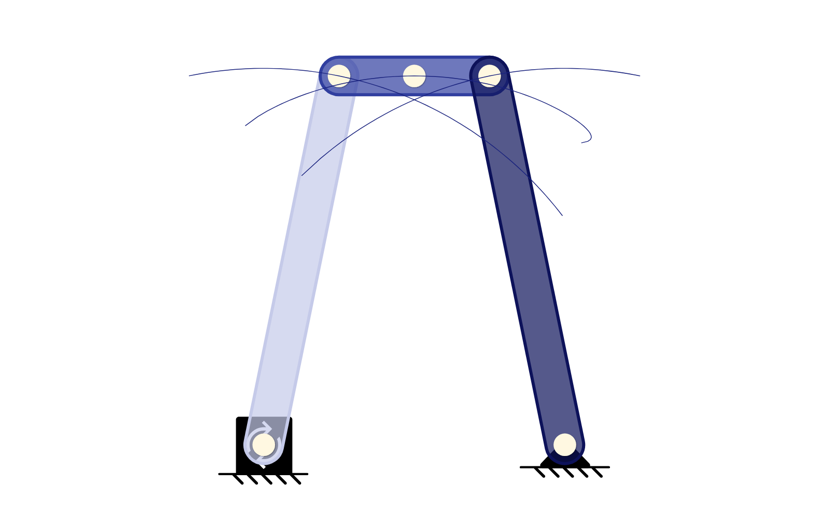
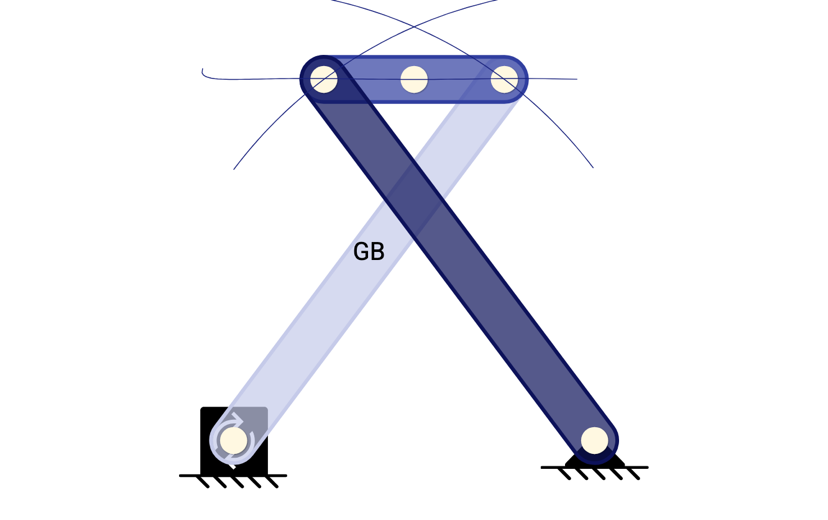
Cross the arms of the Chebyshev linkage, which is the whole of it
The library's straight-line linkage did not draw a straight line. Built
with each ground pivot holding the coupler pin on its own side -- the
arrangement that looks symmetric and right -- the same four lengths in
Chebyshev's classic 4:5:5:2 sweep an obvious arc: the tracer climbed
0.89 across its travel and strayed 6.4% from a straight line. The arms
have to cross. Crossed, it climbs 0.13 and strays 0.38%.

Nothing in the spec could tell the two apart. Both are rigid, both are
one degree of freedom, both are symmetric, both trace a level line of
much the same length, and the straightness bound was fitted to whichever
one it was handed. Worse, one assertion demanded a rise of half the
coupler and got it -- from the arc -- so the file's defence against "a
mechanism that barely moves" was actively asking to be wrong, since a
straight-line generator's entire point is that it has no rise. It now
measures travel along the line, and the straightness bound is set close
enough to where the linkage lands that the wrong assembly fails it.

The band the straightness is measured over was taken as "the upper half
by y", which means something only on a path with a pronounced top. On
the linkage this is supposed to be there isn't one: the split landed
inside the noise and returned a band a few thousandths of a unit wide.
Taken by x now.

diff --git a/src/tests/verification/chebyshev-straight-line.spec.ts b/src/tests/verification/chebyshev-straight-line.spec.ts
@@ -27,9 +27,10 @@ describe("Chebyshev's straight-line linkage", () => {
   it('keeps every bar rigid, tracer included', () => {
     for (let t = 0; t < frames; t++) {
       for (const [a, b, want] of [
-        ['G', 'A', CHEBYSHEV.rocker],
+        // Crossed: the left pivot holds the right-hand coupler pin.
+        ['G', 'B', CHEBYSHEV.rocker],
         ['A', 'B', CHEBYSHEV.coupler],
-        ['B', 'H', CHEBYSHEV.rocker],
+        ['A', 'H', CHEBYSHEV.rocker],
         ['A', 'M', CHEBYSHEV.coupler / 2],
         ['B', 'M', CHEBYSHEV.coupler / 2],
       ] as const) {
@@ -40,17 +41,20 @@ describe("Chebyshev's straight-line linkage", () => {
   });
 
   it('draws a straight line along the middle of its stroke', () => {
-    // The straight part is the *central* portion of the top: the tracer curves
-    // away at both ends, and including those measures the turn-around rather
-    // than the line. So take the upper half, keep the middle half of it by x,
-    // fit a line, and ask how far the tracer strays from it.
-    const mid = (Math.max(...path.map((p) => p.y)) + Math.min(...path.map((p) => p.y))) / 2;
-    const top = path.filter((p) => p.y > mid);
-    expect(top.length).toBeGreaterThan(frames / 4);
-    const xs = top.map((p) => p.x).sort((a, b) => a - b);
-    const lo = xs[Math.floor(xs.length * 0.25)];
-    const hi = xs[Math.floor(xs.length * 0.75)];
-    const band = top.filter((p) => p.x >= lo && p.x <= hi);
+    // The tracer curves away at each end of its travel, so measuring the whole
+    // path measures the turn-around rather than the line. Take the central 70%
+    // by x, fit a line, and ask how far the tracer strays from it.
+    //
+    // The band is taken by x and not, as it once was, by "the upper half by y":
+    // that filter only means anything on a path with a pronounced top, and on
+    // the linkage this is supposed to be there isn't one -- the path is flat,
+    // the y-half split lands inside the noise, and the band it returns is a few
+    // thousandths of a unit wide. It quietly stopped measuring anything.
+    const allX = path.map((p) => p.x);
+    const span = Math.max(...allX) - Math.min(...allX);
+    const band = path.filter(
+      (p) => p.x >= Math.min(...allX) + span * 0.15 && p.x <= Math.max(...allX) - span * 0.15
+    );
     expect(band.length).toBeGreaterThan(20);
 
     const n = band.length;
@@ -62,17 +66,30 @@ describe("Chebyshev's straight-line linkage", () => {
     const stray = Math.max(
       ...band.map((p) => Math.abs(p.y - (my + slope * (p.x - mx))) / Math.sqrt(1 + slope * slope))
     );
-    const run = hi - lo;
-    expect(run).toBeGreaterThan(CHEBYSHEV.coupler / 2);
-    // It strays 3.6% of the distance travelled, which is what "approximate
+    const run = Math.max(...band.map((p) => p.x)) - Math.min(...band.map((p) => p.x));
+
+    // A line longer than the coupler that produced it, and level: the linkage is
+    // symmetric about the middle of the ground link, so the line it draws runs
+    // flat. Level is necessary and nowhere near sufficient, which is the whole
+    // lesson of the bound below.
+    expect(run).toBeGreaterThan(CHEBYSHEV.coupler);
+    expect(Math.abs(slope)).toBeLessThan(0.02);
+    // It strays 0.38% of the distance travelled, which is what "approximate
     // straight-line linkage" means: near enough to teach with, and not exact.
-    // The bound is where the mechanism lands rather than a round number, so it
-    // discriminates -- the wrong proportions, tried first, gave 48%.
-    expect(stray / run).toBeLessThan(0.05);
+    // The bound is close to where the mechanism lands rather than a round
+    // number, because this is the only assertion in the file that can tell the
+    // linkage from its own wrong assembly: built uncrossed it is rigid, one
+    // degree of freedom, symmetric, traces a level line of much the same
+    // length -- and strays 6.4% instead of 0.38%.
+    expect(stray / run).toBeLessThan(0.006);
   });
 
-  it('is genuinely a curve, not a mechanism that barely moves', () => {
-    const rise = Math.max(...path.map((p) => p.y)) - Math.min(...path.map((p) => p.y));
-    expect(rise).toBeGreaterThan(CHEBYSHEV.coupler / 4);
+  it('travels, rather than barely moving', () => {
+    // Measured along the line and not across it. This asked for a rise of half
+    // the coupler, which the linkage the file was written against duly gave --
+    // by sweeping an arc. A straight-line generator's whole point is that it has
+    // no rise, so on the real thing the demand for one was a demand to be wrong.
+    const travel = Math.max(...path.map((p) => p.x)) - Math.min(...path.map((p) => p.x));
+    expect(travel).toBeGreaterThan(CHEBYSHEV.coupler);
   });
 });

diff --git a/src/test-utils/verification/slot-fixtures.ts b/src/test-utils/verification/slot-fixtures.ts
@@ -800,6 +800,15 @@ export const CHEBYSHEV = { ground: 4, rocker: 5, coupler: 2 };
  * all the way over: the input rocks and the cycle closes on a reversal rather
  * than on a revolution.
  *
+ * **The arms cross.** Each ground pivot holds the coupler pin on the far side,
+ * which is what puts the pair in the assembly mode the straight line belongs
+ * to. Built uncrossed -- each pivot to its own side, which is the arrangement
+ * that first looks symmetric and right -- the same five bars at the same five
+ * lengths are still rigid, still one degree of freedom, still symmetric, and
+ * trace an arc: the tracer climbs 0.89 across its travel where crossed it
+ * climbs 0.13, straying 6.4% from a straight line instead of 0.38%. Only one
+ * of the two is Chebyshev's linkage.
+ *
  * The tracer sits on the coupler between its two pins, which is the one
  * configuration the circle-circle primitive is ill-conditioned in -- the two
  * circles that place it are internally tangent there. It solves; the tolerances
@@ -808,8 +817,9 @@ export const CHEBYSHEV = { ground: 4, rocker: 5, coupler: 2 };
 export function chebyshevStraightLineFixture(): MechanismFixture {
   const half = CHEBYSHEV.ground / 2;
   const reach = CHEBYSHEV.coupler / 2;
-  // Symmetric pose: both arms leaning inwards, coupler level.
-  const rise = Math.sqrt(CHEBYSHEV.rocker ** 2 - (half - reach) ** 2);
+  // Crossed, so each arm spans the whole of the ground plus its own half of the
+  // coupler rather than the difference between them.
+  const rise = Math.sqrt(CHEBYSHEV.rocker ** 2 - (half + reach) ** 2);
   return {
     joints: [
       { id: 'G', x: -half, y: 0, ground: true, input: true },
@@ -818,7 +828,7 @@ export function chebyshevStraightLineFixture(): MechanismFixture {
       { id: 'M', x: 0, y: rise },
       { id: 'H', x: half, y: 0, ground: true },
     ],
-    links: [{ joints: 'GA' }, { joints: 'ABM' }, { joints: 'BH' }],
+    links: [{ joints: 'GB' }, { joints: 'ABM' }, { joints: 'AH' }],
     inputAngVel: INPUT_SPEED,
   };
 }

diff --git a/src/app/component/MODALS/templates/template-linkages.ts b/src/app/component/MODALS/templates/template-linkages.ts
@@ -81,7 +81,7 @@ export const TEMPLATE_LINKAGES: Record<TemplateID, string> = {
   Radial_Engine:
     '2P.Fe,1E8.K,0.1011.MO,O,0,0,0.GA,A,Fe,0,0.GB,B,0,iC,0.GC,C,0SK,0GM,0.GD,D,pm,0Tu,0.LP,P,0,iC,OZ.LQ,Q,0SK,0GM,vH.LR,R,pm,0Tu,1Q0..YROA,OA,Fe,Fe,7q,0,c5cae9,O,A,,.YRAB,AB,Fe,Fe,7q,M6,303e9f,A,B,,.YRAC,AC,Fe,Fe,06M,08B,0d125a,A,C,,.YRAD,AD,Fe,Fe,Xi,0Ey,B2DFDB,A,D,,.YPBP,BP,Fe,0,0,0,,B,P,,.YPCQ,CQ,Fe,0,0,0,,C,Q,,.YPDR,DR,Fe,0,0,0,,D,R,,...N_T',
   Chebyshev_Straight_Line:
-    '2P.Fe,1E8.K,0.1011.MG,G,0VG,0,0.GA,A,0Fe,1CZ,0.GB,B,Fe,1CZ,0.GM,M,0,1CZ,0.KH,H,VG,0,0..YRGA,GA,Fe,Fe,0NS,cH,c5cae9,G,A,,.YRABM,ABM,Fe,Fe,0,1CZ,303e9f,A,B,M,,.YRBH,BH,Fe,Fe,NS,cH,0d125a,B,H,,...N_9',
+    '2P.Fe,1E8.K,0.1011.MG,G,0VG,0,0.GA,A,0Fe,_W,0.GB,B,Fe,_W,0.GM,M,0,_W,0.KH,H,VG,0,0..YRGB,GB,Fe,Fe,07q,VG,c5cae9,G,B,,.YRABM,ABM,Fe,Fe,0,_W,303e9f,A,B,M,,.YRAH,AH,Fe,Fe,7q,VG,0d125a,A,H,,...N_5',
   Windshield_Wiper:
     '2P.Fe,1E8.K,0.1011.MO,O,0,0,0.GA,A,Im,0,0.GB,B,1H-,YA,0.GT,T,1K6,qo,0.KH,H,1E8,0,0..YROA,OA,Fe,Fe,9O,0,c5cae9,O,A,,.YRAB,AB,Fe,Fe,oO,H5,303e9f,A,B,,.YRBHT,BHT,Fe,Fe,1HQ,S-,0d125a,B,H,T,,...N_5',
   Elliptical_Crank:

diff --git a/docs/fixture-urls.md b/docs/fixture-urls.md
@@ -27,7 +27,7 @@ PMKS_FIXTURE_BASE_URL=https://deploy-preview-227--pmksprod.netlify.app npm run f
 | [MotionGen gripper](https://app.pmksplus.com/?2P.Fe,1E8.K,0.1011.GA,A,0U5,01,0.GB,B,0Hj,Fj,0.GC,C,0Hj,0FZ,0.GD,D,DZ,Fj,0.GE,E,DZ,0FZ,0.GF,F,0V6,X9,0.GG,G,A,X9,0.GH,H,0V6,0X0,0.GI,I,A,0X0,0.GJ,J,_d,0Bn,0.GK,K,_o,GS,0.NP,P,0U5,01,0.LQ,Q,0V6,X9,OZ.LR,R,A,X9,OZ.LS,S,0V6,0X0,OZ.LT,T,A,0X0,OZ..YRABCDE,ABCDE,Fe,Fe,07i,4,c5cae9,A,B,C,D,E,,.YRBF,BF,Fe,Fe,0OQ,OR,303e9f,B,F,,.YRDG,DG,Fe,Fe,6s,OR,0d125a,D,G,,.YRCH,CH,Fe,Fe,0OQ,0OH,B2DFDB,C,H,,.YREI,EI,Fe,Fe,6s,0OH,26A69A,E,I,,.YRHIJ,HIJ,Fe,Fe,Aa,0Px,00695C,H,I,J,,.YRFGK,FGK,Fe,Fe,Ae,Rb,c5cae9,F,G,K,,.YPAP,AP,Fe,0,0,0,,A,P,,.YPFQ,FQ,Fe,0,0,0,,F,Q,,.YPGR,GR,Fe,0,0,0,,G,R,,.YPHS,HS,Fe,0,0,0,,H,S,,.YPIT,IT,Fe,0,0,0,,I,T,,...N_3) | A second engine's mechanism, rebuilt: over-constrained, so PMKS+ reports DOF 0 and refuses it | — | — | `motiongen-gripper.spec.ts` |
 | [Gripper with the redundancy removed](https://app.pmksplus.com/?2P.Fe,1E8.K,0.1011.GA,A,0U5,0,0.GM,M,DZ,0,0.GB,B,0Hj,Fj,0.GC,C,0Hj,0FZ,0.KF,F,0V6,X9,0.GG,G,A,X9,0.GK,K,_o,GS,0.KH,H,0V6,0X0,0.GI,I,A,0X0,0.GJ,J,_d,0Bn,0.NP,P,0U5,0,0.LN,N,DZ,0,0..YRAMBC,AMBC,Fe,Fe,0C-,2,c5cae9,A,M,B,C,,.YRBG,BG,Fe,Fe,08o,OR,303e9f,B,G,,.YRCI,CI,Fe,Fe,08o,0OH,0d125a,C,I,,.YRFGK,FGK,Fe,Fe,Ae,Rb,B2DFDB,F,G,K,,.YRHIJ,HIJ,Fe,Fe,Aa,0Px,26A69A,H,I,J,,.YPAP,AP,Fe,0,0,0,,A,P,,.YPMN,MN,Fe,0,0,0,,M,N,,...N_j) | The same gripper, jaws pivoting instead of railed: DOF 1, and it runs | — | — | `pivoting-gripper.spec.ts` |
 | [Radial engine, three cylinders](https://app.pmksplus.com/?2P.Fe,1E8.K,0.1011.MO,O,0,0,0.GA,A,Fe,0,0.GB,B,0,iC,0.GC,C,0SK,0GM,0.GD,D,pm,0Tu,0.LP,P,0,iC,OZ.LQ,Q,0SK,0GM,vH.LR,R,pm,0Tu,1Q0..YROA,OA,Fe,Fe,7q,0,c5cae9,O,A,,.YRAB,AB,Fe,Fe,7q,M6,303e9f,A,B,,.YRAC,AC,Fe,Fe,06M,08B,0d125a,A,C,,.YRAD,AD,Fe,Fe,Xi,0Ey,B2DFDB,A,D,,.YPBP,BP,Fe,0,0,0,,B,P,,.YPCQ,CQ,Fe,0,0,0,,C,Q,,.YPDR,DR,Fe,0,0,0,,D,R,,...N_T) | Three sliders on one crank pin; piston stroke is exactly twice the throw | — | — | `radial-engine.spec.ts` |
-| [Chebyshev straight-line linkage](https://app.pmksplus.com/?2P.Fe,1E8.K,0.1011.MG,G,0VG,0,0.GA,A,0Fe,1CZ,0.GB,B,Fe,1CZ,0.GM,M,0,1CZ,0.KH,H,VG,0,0..YRGA,GA,Fe,Fe,0NS,cH,c5cae9,G,A,,.YRABM,ABM,Fe,Fe,0,1CZ,303e9f,A,B,M,,.YRBH,BH,Fe,Fe,NS,cH,0d125a,B,H,,...N_9) | Approximate straight-line generation: the coupler midpoint runs flat along the top | — | — | `chebyshev-straight-line.spec.ts` |
+| [Chebyshev straight-line linkage](https://app.pmksplus.com/?2P.Fe,1E8.K,0.1011.MG,G,0VG,0,0.GA,A,0Fe,_W,0.GB,B,Fe,_W,0.GM,M,0,_W,0.KH,H,VG,0,0..YRGB,GB,Fe,Fe,07q,VG,c5cae9,G,B,,.YRABM,ABM,Fe,Fe,0,_W,303e9f,A,B,M,,.YRAH,AH,Fe,Fe,7q,VG,0d125a,A,H,,...N_5) | Approximate straight-line generation: the coupler midpoint runs flat along the top | — | — | `chebyshev-straight-line.spec.ts` |
 | [Windshield wiper](https://app.pmksplus.com/?2P.Fe,1E8.K,0.1011.MO,O,0,0,0.GA,A,Im,0,0.GB,B,1H-,YA,0.GT,T,1K6,qo,0.KH,H,1E8,0,0..YROA,OA,Fe,Fe,9O,0,c5cae9,O,A,,.YRAB,AB,Fe,Fe,oO,H5,303e9f,A,B,,.YRBHT,BHT,Fe,Fe,1HQ,S-,0d125a,B,H,T,,...N_5) | Crank-rocker: continuous rotation into a bounded sweep, against the closed form | — | — | `windshield-wiper.spec.ts` |
 | [Jansen leg](https://app.pmksplus.com/?2P.3Qm,1E8.K,0.1011.MO,O,0,0,0.GA,A,3gO,0,0.KG,G,09Hm,01vu,0.GB,B,05tE,7ee,0.GC,C,0IGg,1-F,0.GD,D,06b8,0B7B,0.GE,E,0ETW,06sL,0.GF,F,0AYO,0MPj,0..YROA,OA,Fe,Fe,1rC,0,c5cae9,O,A,,.YRAB,AB,Fe,Fe,016R,3qK,303e9f,A,B,,.YRGBC,GBC,Fe,Fe,0B8Z,2ag,0d125a,G,B,C,,.YRAD,AD,Fe,Fe,01TO,05Zc,B2DFDB,A,D,,.YRGD,GD,Fe,Fe,07xS,06WY,26A69A,G,D,,.YRCE,CE,Fe,Fe,0GN5,02RZ,00695C,C,E,,.YRDEF,DEF,Fe,Fe,0AXh,0DT4,c5cae9,D,E,F,,...N_c) | One leg of a Strandbeest: eight bars on Jansen's holy numbers, and the foot walks | — | — | `jansen-leg.spec.ts` |
 | [Elliptical crank](https://app.pmksplus.com/?2P.Fe,1E8.K,0.1011.MA,A,0ix,X,0.GB,B,0zu,7O,0.GC,C,0qC,Lr,0.GD,D,085,Av,0.GE,E,aY,v,0.KF,F,0,0,0.LP,P,aY,v,03..YRAB,AB,Fe,Fe,0rQ,3y,c5cae9,A,B,,.YRBC,BC,Fe,Fe,0v2,Ed,303e9f,B,C,,.YRCDE,CDE,Fe,Fe,07x,BD,0d125a,C,D,E,,.YRDF,DF,Fe,Fe,043,5S,B2DFDB,D,F,,.YPEP,EP,Fe,0,0,0,,E,P,,...N_V) | A six-bar no dyad reaches: the coupler and its guided end have to be solved together | — | — | `elliptical-crank.spec.ts` |
